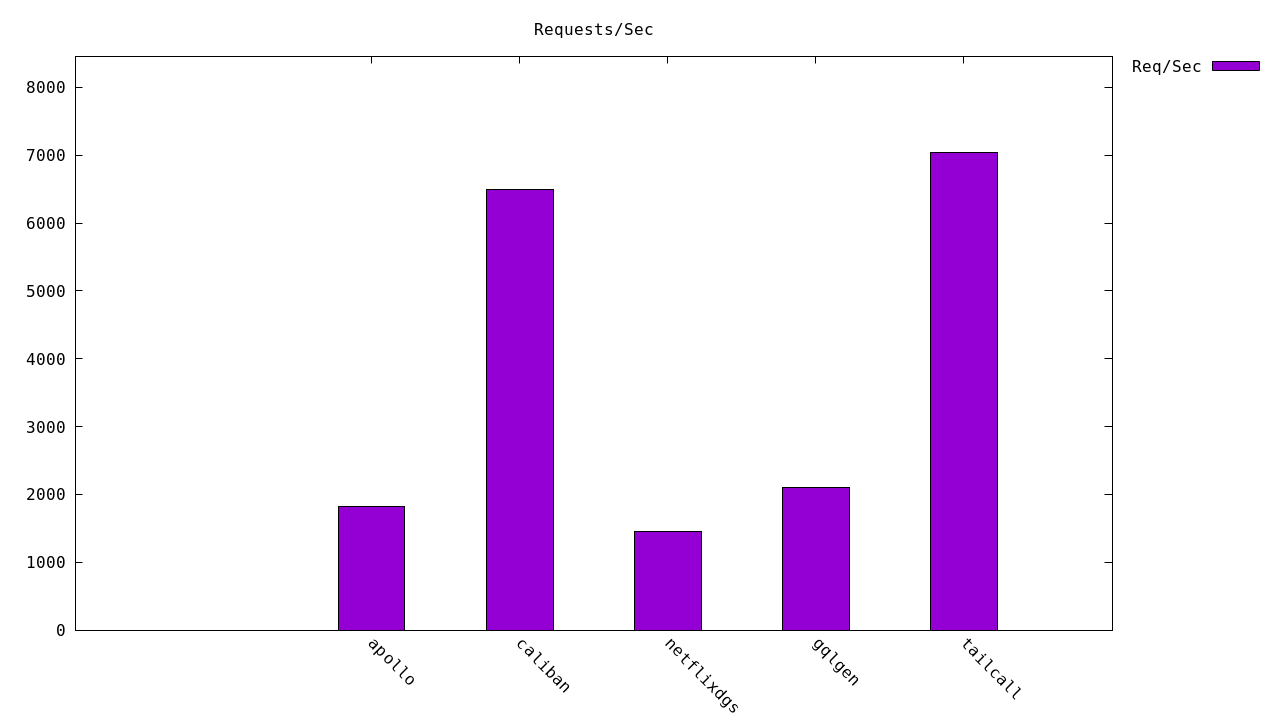
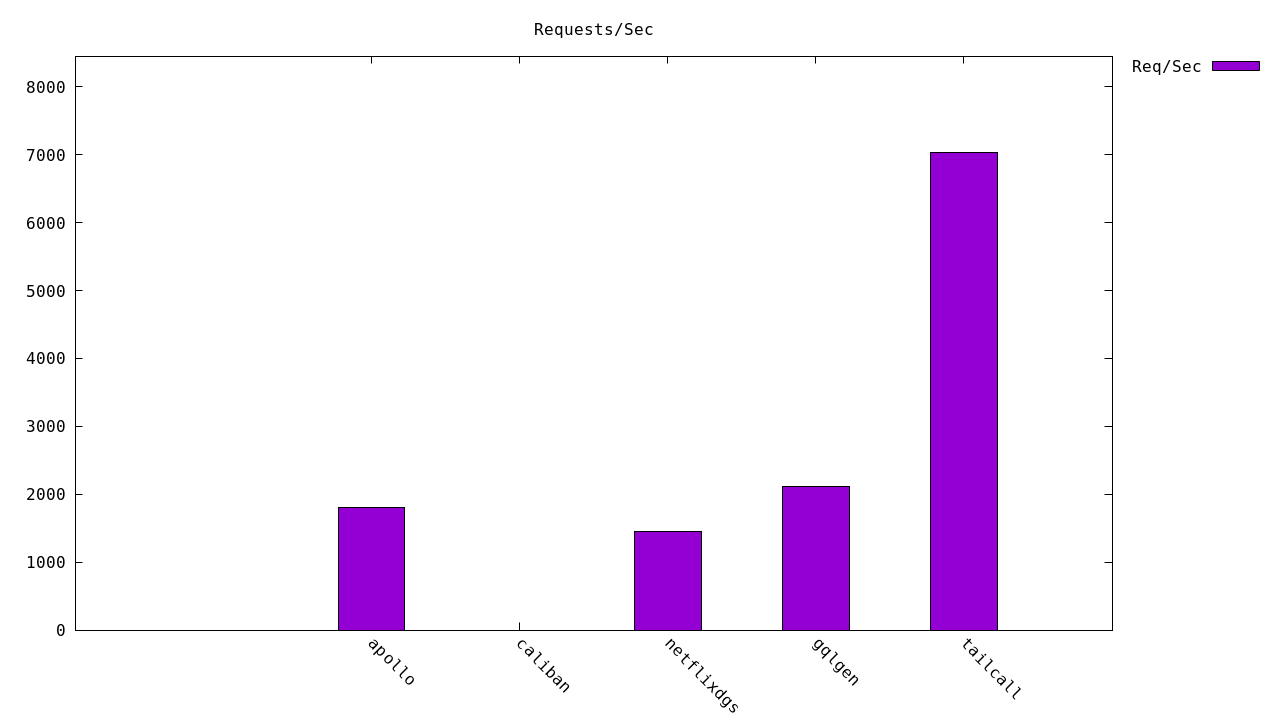
Update performance results in README.md

Changed region(s): [[0.375, 0.2444, 0.4375, 0.8861], [0.0312, 0.5806, 0.0625, 0.6111], [0.0312, 0.4889, 0.0625, 0.5194]]

diff --git a/README.md b/README.md
@@ -46,11 +46,11 @@ Get started with the benchmarks:
 
 | Server | Requests/sec | Latency (ms) |
 |--------:|--------------:|--------------:|
-| [Tailcall] | `7,045.22` | `14.15` |
-| [Caliban] | `6,490.24` | `15.48` |
-| [Gqlgen] | `2,098.33` | `49.28` |
-| [Apollo GraphQL] | `1,817.35` | `54.93` |
-| [Netflix DGS] | `1,458.36` | `88.69` |
+| [Tailcall] | `7,036.89` | `14.20` |
+| [Gqlgen] | `2,116.64` | `49.04` |
+| [Apollo GraphQL] | `1,801.30` | `55.30` |
+| [Netflix DGS] | `1,449.60` | `90.44` |
+| [Caliban] | `-nan` | `-nan` |
 
 <!-- PERFORMANCE_RESULTS_END -->
 
